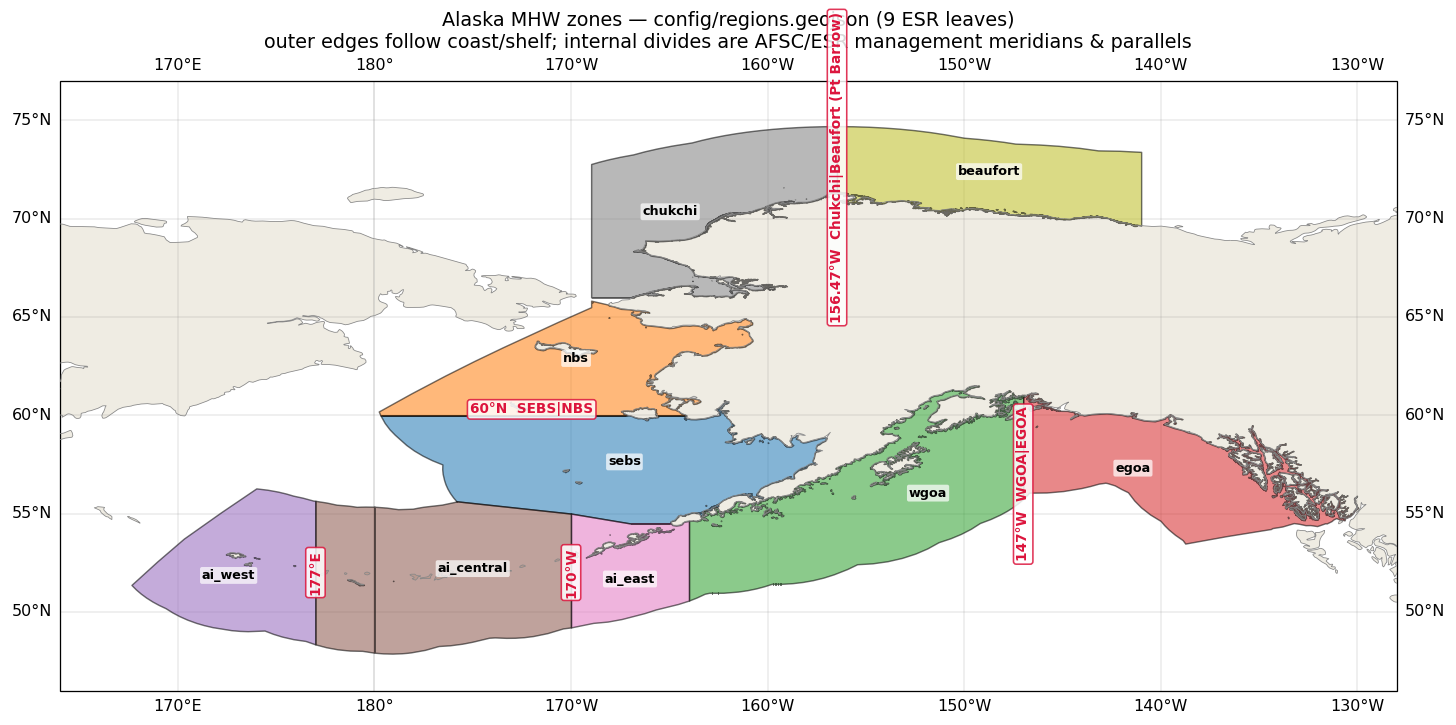
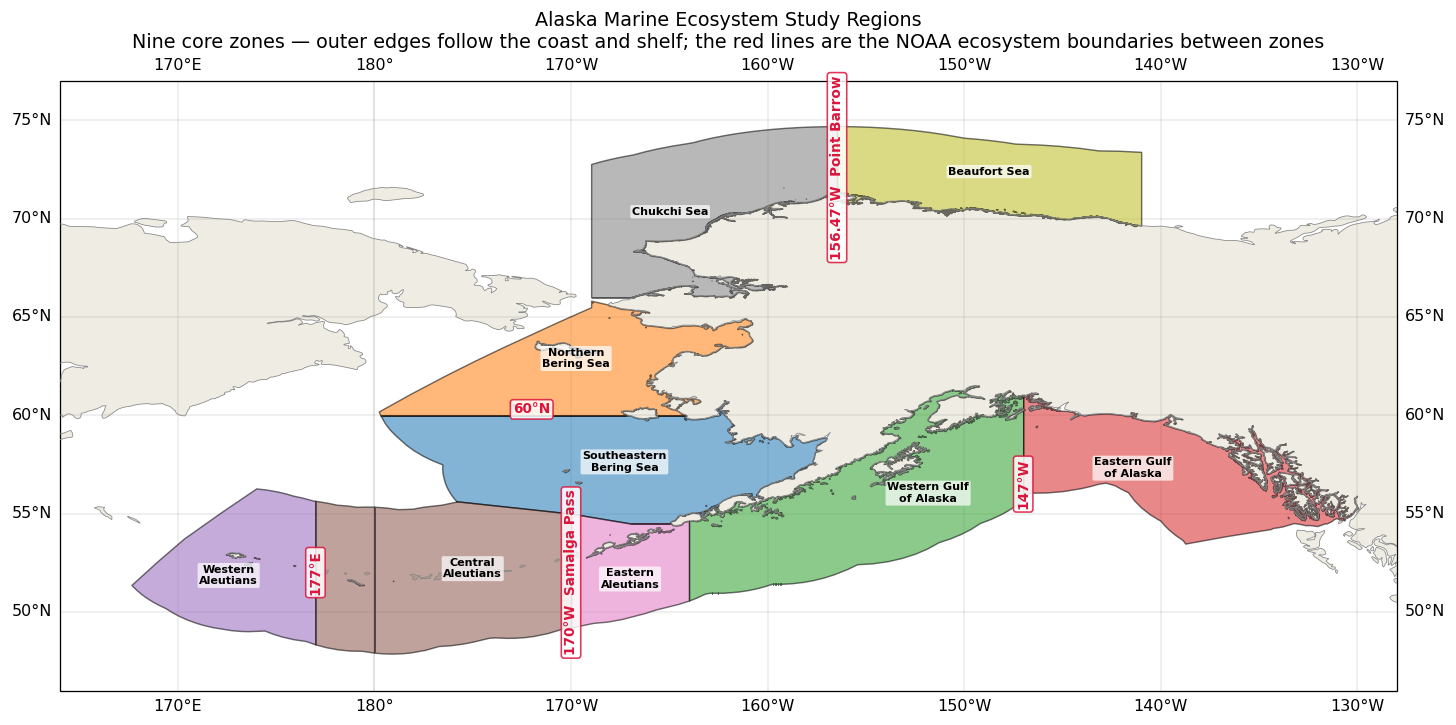
refactor(study-regions): plain-English page — drop code ids, file paths, jargon
Manager-review cleanup of the live Study Regions page: regenerated map with plain
zone names + non-code title; provenance sidecar human strings rewritten plain
(machine checks/source keys untouched — guardrail 4/4); page drops all file paths
and code identifiers, and the ai_west western-edge caveat moves from a raw OPEN
ITEM box to a numbered plain-English footnote. Adds the map-render script to main.

diff --git a/src/dashboard/pages/study_regions.py b/src/dashboard/pages/study_regions.py
@@ -1,11 +1,12 @@
 """Study Regions — the 12 Alaska-shelf ecosystem zones that drive the whole board, with a
-single annotated map and cited provenance for every boundary.
+single annotated map and the primary NOAA source cited for every boundary.
 
-A path-registered page (runs top-to-bottom, like ``literature.py``). It renders the committed
-region-boundary map (``docs/region_boundaries.png``) and reads the sealed provenance sidecar
-(``config/regions_provenance.json``) at runtime, so the zone list and citations never drift from
-the geometry the masks/aggregation/forecasts are built on. Page config / fonts are owned by the
-navigation shell.
+A path-registered page (runs top-to-bottom, like ``literature.py``). It renders the region map
+(``docs/region_boundaries.png``) and reads the boundary sidecar (``config/regions_provenance.json``)
+at runtime, so the zone list and citations never drift from the geometry the maps and indicators
+are built on. All on-page text is plain-English and user-facing — the sidecar's ``label`` /
+``boundary`` / ``value`` / ``note`` fields carry that wording; this page is a faithful renderer.
+Page config / fonts are owned by the navigation shell.
 """
 from __future__ import annotations
 
@@ -18,7 +19,7 @@ ROOT = Path(__file__).resolve().parents[3]
 MAP_PNG = ROOT / "docs" / "region_boundaries.png"
 PROVENANCE_JSON = ROOT / "config" / "regions_provenance.json"
 
-# Ecosystem grouping (matches the board's geography-first sections). Leaves in map order.
+# Ecosystem grouping (matches the board's geography-first sections). Zones in map order.
 GROUPS = [
     ("Bering Sea", ["sebs", "nbs"], "ebs"),
     ("Gulf of Alaska", ["wgoa", "egoa"], "goa"),
@@ -32,19 +33,20 @@ _CSS = """<style>
 .sr-sec { font-size:0.82rem; font-weight:700; letter-spacing:0.06em; text-transform:uppercase;
     color:#1565c0; margin:0.2rem 0 0.5rem; }
 .sr-group { font-size:1.15rem; font-weight:700; color:#16407a; margin:0 0 0.1rem; }
-.sr-rollup { font-size:0.8rem; color:#5f6b7a; margin:0 0 0.6rem; }
+.sr-combined { font-size:0.85rem; color:#5f6b7a; margin:0 0 0.6rem; }
 .sr-zone { font-size:1.0rem; font-weight:700; color:#2b3a4a; margin:0.55rem 0 0.1rem; }
-.sr-bnd { font-size:0.9rem; line-height:1.45; color:#2b3a4a; margin:0.05rem 0; }
+.sr-bnd { font-size:0.92rem; line-height:1.45; color:#2b3a4a; margin:0.05rem 0; }
 .sr-bnd b { color:#16407a; }
+.sr-mark { color:#1565c0; font-weight:700; }
 .sr-quote { font-size:0.85rem; line-height:1.4; color:#455160; border-left:3px solid #c9d6e5;
     padding:0.05rem 0 0.05rem 0.6rem; margin:0.15rem 0 0.15rem 0.2rem; font-style:italic; }
-.sr-note { font-size:0.83rem; line-height:1.4; color:#8a5a00; background:#fff6e5;
-    border-left:3px solid #e0a800; padding:0.25rem 0.6rem; margin:0.2rem 0 0.2rem 0.2rem;
-    border-radius:0 4px 4px 0; }
 .sr-doctrine { font-size:0.95rem; line-height:1.5; color:#22303c; }
-.sr-src { font-size:0.86rem; line-height:1.45; color:#2b3a4a; margin:0.2rem 0; }
+.sr-fn { font-size:0.9rem; line-height:1.45; color:#33414f; margin:0.15rem 0; }
+.sr-fn b { color:#1565c0; }
+.sr-src { font-size:0.9rem; line-height:1.4; color:#2b3a4a; margin:0.35rem 0; }
 .sr-src b { color:#16407a; }
-.sr-footer { font-size:0.8rem; color:#7a8694; }
+.sr-src-ref { font-size:0.83rem; color:#5f6b7a; margin-top:0.05rem; }
+.sr-footer { font-size:0.82rem; line-height:1.45; color:#7a8694; }
 </style>"""
 
 
@@ -53,27 +55,15 @@ def _load_provenance() -> dict:
     return json.loads(PROVENANCE_JSON.read_text(encoding="utf-8"))
 
 
-def _render_boundary(b: dict) -> None:
-    """One provenance row: boundary → value, optional verbatim quote, optional open-item note."""
-    st.markdown(
-        f"<div class='sr-bnd'>· <b>{b['boundary']}</b> — {b['value']}</div>",
-        unsafe_allow_html=True,
-    )
-    if b.get("quote"):
-        st.markdown(f"<div class='sr-quote'>“{b['quote']}”</div>", unsafe_allow_html=True)
-    if b.get("note"):
-        st.markdown(f"<div class='sr-note'>⚠ {b['note']}</div>", unsafe_allow_html=True)
-
-
 # --- Header -------------------------------------------------------------------------------
 st.markdown(_CSS, unsafe_allow_html=True)
 st.markdown("<div class='sr-title'>🗺 Study Regions</div>", unsafe_allow_html=True)
 st.markdown(
-    "<div class='sr-lead'>The board reports on <b>12 Alaska-shelf ecosystem zones</b> — nine "
-    "leaf zones plus three roll-ups (Eastern Bering Sea, Gulf of Alaska, Aleutian Islands). "
-    "One shared set of polygons (<code>config/regions.geojson</code>) drives every mask, "
-    "aggregation, map, and forecast on the platform. This page shows where those zones are and "
-    "cites the primary NOAA source for every boundary.</div>",
+    "<div class='sr-lead'>The board reports on <b>12 Alaska-shelf ecosystem zones</b> — nine core "
+    "zones plus three combined regions (the Eastern Bering Sea, the Gulf of Alaska, and the "
+    "Aleutian Islands). One shared set of boundaries defines every map, indicator, and forecast on "
+    "the platform. This page shows where the zones are and cites the primary NOAA source for each "
+    "boundary.</div>",
     unsafe_allow_html=True,
 )
 st.divider()
@@ -81,7 +71,7 @@ st.divider()
 try:
     prov = _load_provenance()
 except FileNotFoundError:
-    st.error(f"Provenance sidecar not found: {PROVENANCE_JSON}")
+    st.error("Region boundary reference not found.")
     st.stop()
 feats = prov["features"]
 sources = prov["sources"]
@@ -92,70 +82,86 @@ with st.container(border=True):
     if MAP_PNG.exists():
         st.image(str(MAP_PNG), use_container_width=True)
     else:
-        st.warning(
-            "Region-boundary map not found. Generate it with "
-            "`.venv/bin/python scripts/plot_region_boundaries.py` (needs the `[geo]` extra)."
-        )
+        st.warning("Region map is being prepared.")
     st.caption(
-        "Nine ESR leaf zones. Outer edges follow the coast/shelf; internal divides (red) are the "
-        "AFSC/ESR management meridians and parallels detailed below."
+        "Nine core ecosystem zones. Outer edges follow the coast and shelf; the internal divides "
+        "(red) are the NOAA ecosystem boundaries described below."
     )
 
-# --- Doctrine -----------------------------------------------------------------------------
+# --- Which boundaries the board uses ------------------------------------------------------
 with st.container(border=True):
-    st.markdown("<div class='sr-sec'>Which boundary reference is authoritative</div>",
+    st.markdown("<div class='sr-sec'>Which boundaries the board uses</div>",
                 unsafe_allow_html=True)
     st.markdown(
-        "<div class='sr-doctrine'>This is an <b>ecosystem</b> board, so the authoritative "
-        "reference is the <b>AFSC Ecosystem Status Report (ESR) ecoregions</b> — physics- and "
-        "biogeography-driven boundaries (oceanographic passes, fronts, water-mass breaks) — "
-        "<b>not</b> the NMFS fishery-management statistical/survey areas (e.g. Aleutian districts "
-        "541/542/543). The two zonations overlap and <i>disagree by design</i>. The canonical "
-        "case is the Aleutians: the ESR splits Central↔Eastern at <b>Samalga Pass ≈ 170°W</b> (a "
-        "first-order biogeographic break), while management splits at 177°W. The board follows the "
-        "ESR.</div>",
+        "<div class='sr-doctrine'>This board describes <b>ecosystems</b>, so its boundaries come "
+        "from NOAA's Alaska <b>Ecosystem Status Reports</b> — lines drawn where the ocean itself "
+        "changes (passes, fronts, and water-mass boundaries). They are <b>not</b> the same as "
+        "NOAA's fishery-management survey districts (for example, the Aleutian areas 541/542/543), "
+        "which are drawn for setting catch limits. The two systems overlap but differ by design. "
+        "The clearest example is the Aleutians: the ecosystem boundary between the Central and "
+        "Eastern Aleutians falls at <b>Samalga Pass (about 170°W)</b> — a natural break in the "
+        "marine environment — while the management boundary sits at 177°W. This board follows the "
+        "ecosystem boundaries.</div>",
         unsafe_allow_html=True,
     )
 
-# --- Per-zone provenance, grouped by ecosystem --------------------------------------------
-st.markdown("<div class='sr-sec' style='margin-top:0.6rem;'>Zone-by-zone provenance</div>",
+# --- Per-zone boundaries, grouped by ecosystem (collecting footnotes) ---------------------
+st.markdown("<div class='sr-sec' style='margin-top:0.6rem;'>Zone-by-zone boundaries</div>",
             unsafe_allow_html=True)
+footnotes: list[str] = []
 for group_name, leaves, rollup in GROUPS:
     with st.container(border=True):
         st.markdown(f"<div class='sr-group'>{group_name}</div>", unsafe_allow_html=True)
         if rollup and rollup in feats:
             members = ", ".join(feats[m]["name"] for m in feats[rollup]["members"])
             st.markdown(
-                f"<div class='sr-rollup'>Roll-up <b>{feats[rollup]['name']}</b> = {members}.</div>",
+                f"<div class='sr-combined'><b>{feats[rollup]['name']}</b> is a combined region: "
+                f"{members}.</div>",
                 unsafe_allow_html=True,
             )
         for leaf in leaves:
             f = feats[leaf]
-            st.markdown(
-                f"<div class='sr-zone'>{f['name']} "
-                f"<span style='font-weight:400;color:#7a8694;'>({leaf})</span></div>",
-                unsafe_allow_html=True,
-            )
+            st.markdown(f"<div class='sr-zone'>{f['name']}</div>", unsafe_allow_html=True)
             for b in f.get("provenance", []):
-                _render_boundary(b)
+                mark = ""
+                if b.get("note"):
+                    footnotes.append(b["note"])
+                    mark = f" <span class='sr-mark'>[{len(footnotes)}]</span>"
+                st.markdown(
+                    f"<div class='sr-bnd'>· <b>{b['boundary']}:</b> {b['value']}{mark}</div>",
+                    unsafe_allow_html=True,
+                )
+                if b.get("quote"):
+                    st.markdown(f"<div class='sr-quote'>“{b['quote']}”</div>",
+                                unsafe_allow_html=True)
+
+# --- Footnotes (open items pulled out of the main flow) -----------------------------------
+if footnotes:
+    with st.container(border=True):
+        st.markdown("<div class='sr-sec'>Notes</div>", unsafe_allow_html=True)
+        for i, note in enumerate(footnotes, 1):
+            st.markdown(f"<div class='sr-fn'><b>[{i}]</b> {note}</div>", unsafe_allow_html=True)
 
 # --- Sources ------------------------------------------------------------------------------
 with st.container(border=True):
     st.markdown("<div class='sr-sec'>Cited sources</div>", unsafe_allow_html=True)
-    for key, s in sources.items():
-        url = s.get("url", "")
-        ref = s.get("ref", key)
+    for s in sources.values():
+        label = s.get("label") or s.get("ref", "")
+        ref = s.get("ref", "")
         locator = s.get("locator", "")
-        link = f" &nbsp;<a href='{url}' target='_blank'>source ↗</a>" if url else ""
-        loc = f" &nbsp;·&nbsp; <i>{locator}</i>" if locator else ""
-        st.markdown(f"<div class='sr-src'><b>{key}</b> — {ref}{loc}{link}</div>",
-                    unsafe_allow_html=True)
+        url = s.get("url", "")
+        link = f" &nbsp;<a href='{url}' target='_blank'>view source ↗</a>" if url else ""
+        loc = f" &nbsp;·&nbsp; {locator}" if locator else ""
+        st.markdown(
+            f"<div class='sr-src'><b>{label}</b>"
+            f"<div class='sr-src-ref'>{ref}{loc}{link}</div></div>",
+            unsafe_allow_html=True,
+        )
 
 st.divider()
 st.markdown(
-    "<div class='sr-footer'>Boundaries are sealed in <code>config/regions.geojson</code>; "
-    "machine-checkable values live in <code>config/regions_provenance.json</code> and are enforced "
-    "by <code>tests/test_region_provenance.py</code> (any drift fails CI). Full narrative: "
-    "<code>docs/region_provenance.md</code> and <code>docs/arctic_region_provenance.md</code>.</div>",
+    "<div class='sr-footer'>Every boundary shown here follows NOAA's Alaska Ecosystem Status "
+    "Report ecoregions and is held fixed across the platform, so the map and the indicators built "
+    "on it always agree. Each value is checked automatically against its cited source.</div>",
     unsafe_allow_html=True,
 )

diff --git a/scripts/plot_region_boundaries.py b/scripts/plot_region_boundaries.py
@@ -1,0 +1,75 @@
+"""Render all MHW zone polygons (config/regions.geojson) on one annotated map.
+
+Shows the 9 ESR leaf zones with their outer coast/shelf-following edges and the straight
+internal management divides (60°N SEBS|NBS, 147°W WGOA|EGOA, 156.47°W Chukchi|Beaufort,
+177°E / 170°W Aleutians). Companion to docs/region_provenance.md.
+
+Run: .venv/bin/python scripts/plot_region_boundaries.py [--out PATH]
+Needs the [geo] extra (cartopy, shapely).
+"""
+from __future__ import annotations
+import argparse, json
+from pathlib import Path
+import matplotlib
+matplotlib.use("Agg")
+import matplotlib.pyplot as plt
+import cartopy.crs as ccrs
+import cartopy.feature as cfeature
+from shapely.geometry import shape
+
+PROJECT_ROOT = Path(__file__).resolve().parents[1]
+LEAVES = ["sebs", "nbs", "wgoa", "egoa", "ai_west", "ai_central", "ai_east", "chukchi", "beaufort"]
+# Plain-English on-map labels (two lines where the name is long) — no internal codes.
+LABELS = {
+    "sebs": "Southeastern\nBering Sea", "nbs": "Northern\nBering Sea",
+    "wgoa": "Western Gulf\nof Alaska", "egoa": "Eastern Gulf\nof Alaska",
+    "ai_west": "Western\nAleutians", "ai_central": "Central\nAleutians",
+    "ai_east": "Eastern\nAleutians", "chukchi": "Chukchi Sea", "beaufort": "Beaufort Sea",
+}
+
+
+def main(argv=None) -> int:
+    ap = argparse.ArgumentParser()
+    ap.add_argument("--out", type=Path, default=PROJECT_ROOT / "docs" / "region_boundaries.png")
+    args = ap.parse_args(argv)
+    feats = {f["properties"]["id"]: f for f in
+             json.loads((PROJECT_ROOT / "config" / "regions.geojson").read_text())["features"]}
+    colors = plt.cm.tab10.colors + plt.cm.Set3.colors
+    proj = ccrs.PlateCarree(central_longitude=180)
+    fig = plt.figure(figsize=(15, 9))
+    ax = plt.axes(projection=proj)
+    ax.set_extent([-16, 52, 46, 77], crs=proj)  # proj coords = lon-180 → covers 164°E..232°E
+    ax.add_feature(cfeature.LAND, facecolor="#efece3", zorder=0)
+    ax.add_feature(cfeature.COASTLINE, linewidth=0.5, edgecolor="#888", zorder=3)
+    ax.gridlines(draw_labels=True, linewidth=0.3, color="gray", alpha=0.5,
+                 xlocs=[-180, -170, -160, -150, -140, -130, 170, 180],
+                 ylocs=[50, 55, 60, 65, 70, 75])
+    for i, r in enumerate(LEAVES):
+        geom = shape(feats[r]["geometry"])
+        ax.add_geometries([geom], crs=ccrs.PlateCarree(), facecolor=colors[i],
+                          edgecolor="k", linewidth=0.9, alpha=0.55, zorder=2)
+        c = geom.representative_point()
+        ax.text(c.x, c.y, LABELS[r], transform=ccrs.PlateCarree(), fontsize=7, ha="center",
+                va="center", weight="bold", zorder=4,
+                bbox=dict(boxstyle="round,pad=0.15", fc="white", ec="none", alpha=0.7))
+
+    def divide(lon, lat, txt, rot=90):
+        ax.text(lon, lat, txt, transform=ccrs.PlateCarree(), fontsize=8.5, color="crimson",
+                weight="bold", ha="center", va="center", rotation=rot, zorder=5,
+                bbox=dict(boxstyle="round,pad=0.2", fc="white", ec="crimson", alpha=0.85))
+    divide(-147, 56.5, "147°W")
+    divide(-172, 60.3, "60°N", rot=0)
+    divide(-156.47, 72.6, "156.47°W  Point Barrow")
+    divide(177, 52.0, "177°E")
+    divide(-170, 52.0, "170°W  Samalga Pass")
+    ax.set_title("Alaska Marine Ecosystem Study Regions\n"
+                 "Nine core zones — outer edges follow the coast and shelf; the red lines are the "
+                 "NOAA ecosystem boundaries between zones", fontsize=12)
+    args.out.parent.mkdir(parents=True, exist_ok=True)
+    plt.savefig(args.out, dpi=115, bbox_inches="tight")
+    print("saved", args.out)
+    return 0
+
+
+if __name__ == "__main__":
+    raise SystemExit(main())
